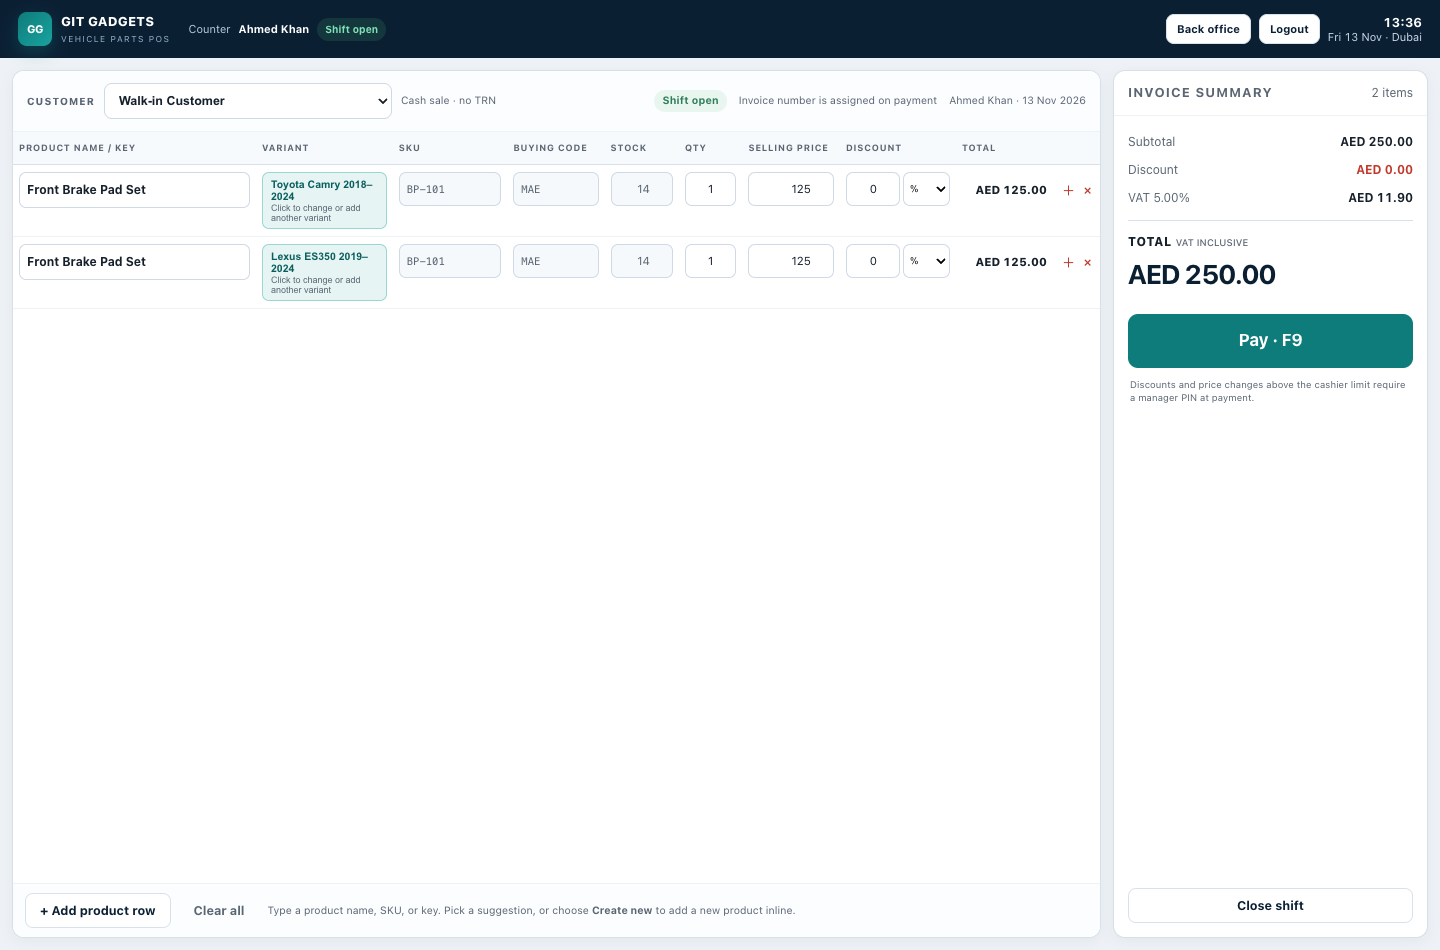
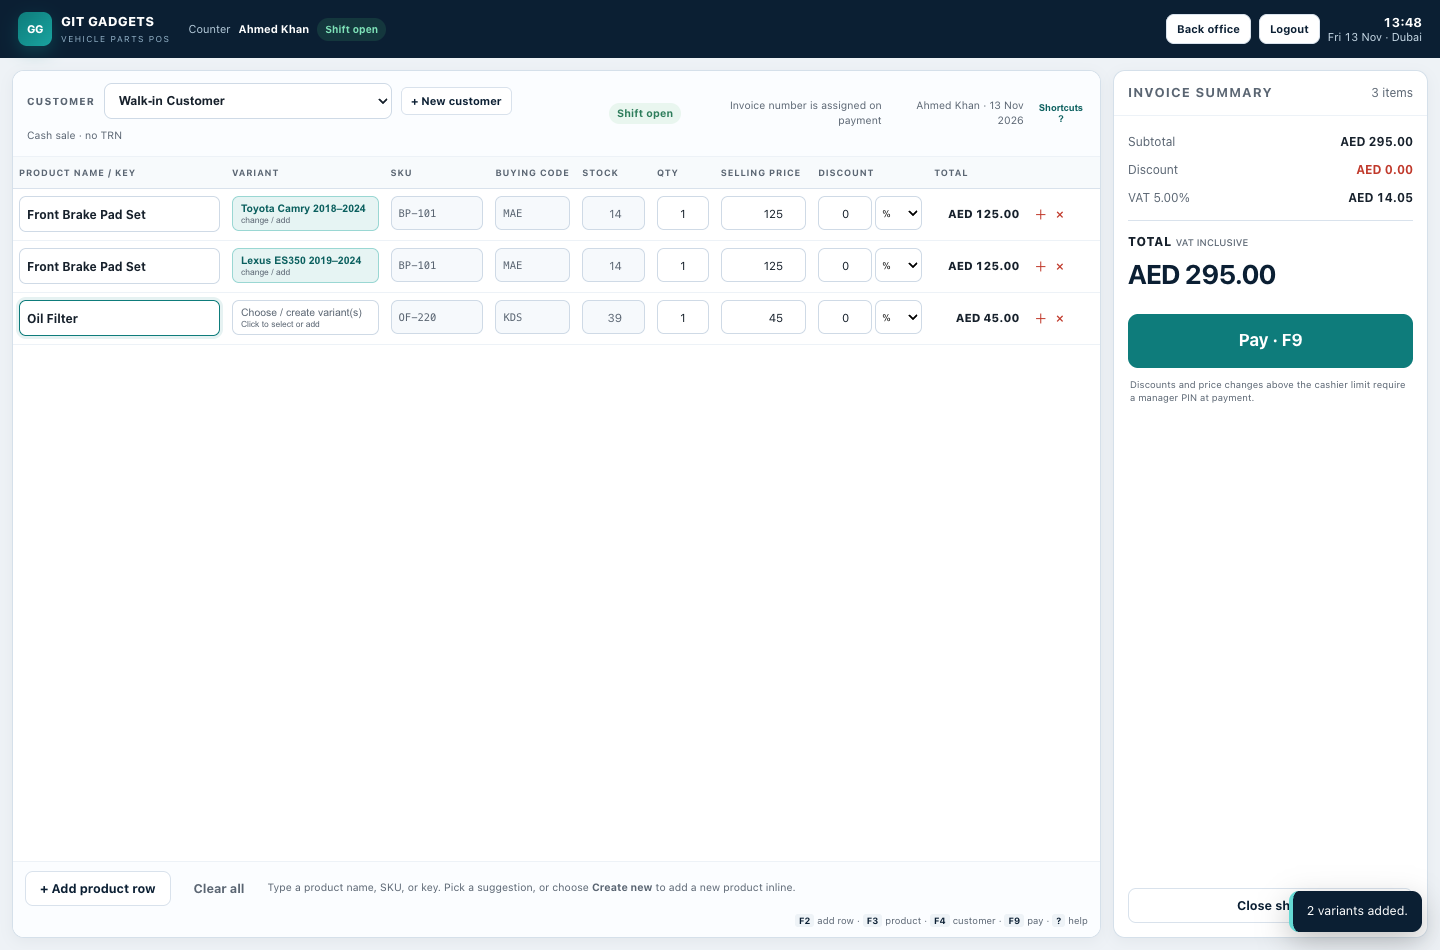
Add POS customer creation, hidden cost and shortcuts

diff --git a/public/js/pos.js b/public/js/pos.js
@@ -63,6 +63,66 @@
     customerSelect.addEventListener('change', syncCustomerMeta);
     syncCustomerMeta();
 
+
+    // ---------------------------------------------------------------- new customer
+    const openNewCustomer = () => {
+        $('#customer-form').reset();
+        openModal('customer-modal');
+        setTimeout(() => $('#new-customer-name').focus(), 100);
+    };
+    $('#new-customer-btn').addEventListener('click', openNewCustomer);
+    $('#customer-form').addEventListener('submit', async (e) => {
+        e.preventDefault();
+        const form = new FormData(e.target);
+        const payload = {};
+        form.forEach((value, key) => { if (value !== '') payload[key] = value; });
+        try {
+            const data = await api('/api/pos/customers', { method: 'POST', body: JSON.stringify(payload) });
+            const c = data.customer;
+            const option = new Option(c.name + (c.trn ? ' — ' + c.trn : ''), c.id);
+            option.dataset.name = c.name;
+            option.dataset.trn = c.trn || '';
+            option.dataset.credit = c.credit_limit;
+            option.dataset.outstanding = c.outstanding;
+            customerSelect.appendChild(option);
+            customerSelect.value = String(c.id);
+            syncCustomerMeta();
+            closeModal('customer-modal');
+            toast('Customer ' + c.name + ' created and selected.');
+        } catch (err) { toast(err.message, 'error'); }
+    });
+
+    // ---------------------------------------------------------------- hidden buying price
+    let costRow = null;
+    const openBuyingPrice = (tr) => {
+        if (!boot.user?.can_view_cost) return;
+        costRow = tr;
+        $('#buying-price-product').textContent = tr.querySelector('.entry-product').value + ' — the value is masked and never shown in the table.';
+        $('#buying-price-input').value = tr._cost ?? '';
+        openModal('buying-price-modal');
+        setTimeout(() => $('#buying-price-input').focus(), 100);
+    };
+    $('#buying-price-save').addEventListener('click', () => {
+        if (!costRow) return;
+        const raw = $('#buying-price-input').value.trim();
+        const value = raw === '' ? null : Number(raw);
+        if (value !== null && (!Number.isFinite(value) || value < 0)) {
+            toast('Buying price must be zero or more.', 'error');
+            return;
+        }
+        costRow._cost = value;
+        const btn = costRow.querySelector('.buying-price');
+        btn.classList.toggle('cost-set', value !== null);
+        btn.title = value === null ? 'Enter hidden buying price' : 'Buying price saved (hidden)';
+        closeModal('buying-price-modal');
+        toast(value === null ? 'Buying price cleared.' : 'Buying price saved hidden.');
+        costRow = null;
+    });
+
+    // ---------------------------------------------------------------- shortcuts
+    const openShortcuts = () => openModal('shortcuts-modal');
+    $('#shortcuts-btn').addEventListener('click', openShortcuts);
+
     // ---------------------------------------------------------------- product search
     const suggest = $('#product-suggest');
     const hideSuggest = () => { suggest.classList.remove('open'); state.activeRow = null; };
@@ -140,6 +200,7 @@
         </td>
         <td><div class="entry-total">AED 0.00</div></td>
         <td class="nowrap">
+            <button type="button" class="entry-remove buying-price" title="Enter hidden buying price" style="display:none">🔒</button>
             <button type="button" class="entry-remove duplicate-variant" title="Add another variant of this product" style="display:none">＋</button>
             <button type="button" class="entry-remove remove-row" title="Remove row">×</button>
         </td>`;
@@ -206,6 +267,7 @@
         tr.querySelector('.entry-qty').value = 1;
         tr.querySelector('.entry-discount').value = 0;
         tr.querySelector('.duplicate-variant').style.display = '';
+        tr.querySelector('.buying-price').style.display = 'none';
         tr._fitments = product.fitments || [];
         tr._variant = null;
         setVariantInput(tr, `<button type="button" class="variant-picker" data-open-variants>
@@ -239,8 +301,13 @@
         price.value = 0;
         tr._fitments = [];
         tr._variant = null;
+        tr._cost = null;
         setVariantInput(tr, '<input class="entry-input entry-variant" placeholder="Variant" autocomplete="off">');
         tr.querySelector('.duplicate-variant').style.display = 'none';
+        const costBtn = tr.querySelector('.buying-price');
+        costBtn.style.display = boot.user?.can_view_cost ? '' : 'none';
+        costBtn.classList.remove('cost-set');
+        costBtn.title = 'Enter hidden buying price';
         recalc();
         if (!silent) {
             sku.focus();
@@ -313,6 +380,16 @@
         recalc();
     });
 
+    $('#entry-body').addEventListener('keydown', (e) => {
+        if (e.key !== 'Enter' || !e.target.classList.contains('entry-product')) return;
+        const tr = e.target.closest('.entry-row');
+        if (tr && state.activeRow === tr && state.activeResults.length) {
+            e.preventDefault();
+            selectProduct(tr, state.activeResults[0]);
+            hideSuggest();
+        }
+    });
+
     $('#entry-body').addEventListener('click', (e) => {
         const tr = e.target.closest('.entry-row');
         if (!tr) return;
@@ -320,6 +397,9 @@
             tr.remove();
             if (!$$('#entry-body .entry-row').length) addRow();
             recalc();
+        }
+        if (e.target.closest('.buying-price')) {
+            openBuyingPrice(tr);
         }
         if (e.target.closest('.duplicate-variant') || e.target.closest('[data-open-variants]')) {
             openVariantPicker(tr);
@@ -551,6 +631,7 @@
             discount_type: tr.querySelector('.entry-discount-type').value,
             discount_value: Number(tr.querySelector('.entry-discount').value || 0),
             original_price: Number(tr.dataset.originalPrice || 0),
+            cost: tr._cost ?? null,
             variant_label: variant.label,
             variant_sku: variant.sku,
         };
@@ -569,6 +650,7 @@
                     selling_price: row.price,
                     secret_cost_code: row.code,
                     stock_qty: row.stock,
+                    cost_price: row.cost ?? undefined,
                     variants: [],
                 }),
             });
@@ -677,7 +759,12 @@
         if (e.key === 'Escape') { closeAll(); hideSuggest(); return; }
         if (e.key === 'F2') { e.preventDefault(); addRow(); }
         if (e.key === 'F3') { e.preventDefault(); $('#entry-body .entry-product')?.focus(); }
+        if (e.key === 'F4') { e.preventDefault(); openNewCustomer(); }
         if (e.key === 'F9') { e.preventDefault(); openPayment(); }
+        if (e.key === '?' && !['INPUT', 'TEXTAREA', 'SELECT'].includes(document.activeElement?.tagName)) {
+            e.preventDefault();
+            openShortcuts();
+        }
     });
 
     addRow();

diff --git a/public/css/app.css b/public/css/app.css
@@ -451,7 +451,7 @@ table.table { width: 100%; border-collapse: collapse; font-size: 12.5px; }
 .entry-customer label { font-size: 10px; text-transform: uppercase; letter-spacing: .1em; color: var(--muted); font-weight: 800; }
 .entry-customer select { height: 36px; min-width: 240px; max-width: 360px; border: 1px solid #cfdae6; border-radius: 8px; padding: 0 10px; background: #fff; font-size: 12.5px; font-weight: 600; color: var(--ink); }
 .entry-customer-meta { font-size: 10.5px; color: var(--muted); }
-.entry-meta { display: flex; align-items: center; gap: 12px; font-size: 10.5px; color: var(--muted); text-align: right; }
+.entry-meta { display: flex; align-items: center; justify-content: flex-end; flex-wrap: wrap; gap: 8px 12px; font-size: 10.5px; color: var(--muted); text-align: right; }
 .entry-table-wrap { flex: 1; min-height: 0; overflow: auto; }
 .entry-table { width: 100%; min-width: 1010px; border-collapse: collapse; font-size: 11.5px; }
 .entry-table th { position: sticky; top: 0; z-index: 3; text-align: left; font-size: 9px; text-transform: uppercase; letter-spacing: .08em; color: var(--muted); background: #f7fafc; border-bottom: 1px solid var(--line); padding: 9px 6px; white-space: nowrap; }
@@ -516,3 +516,11 @@ table.table { width: 100%; border-collapse: collapse; font-size: 12.5px; }
 @media (max-width: 700px) { .new-variant-row { grid-template-columns: 1fr 1fr; } }
 .new-variant-labels { display: grid; grid-template-columns: 1.1fr 1.1fr 70px 70px 1fr 28px; gap: 5px; margin-bottom: 4px; font-size: 8.5px; text-transform: uppercase; letter-spacing: .06em; color: var(--muted); font-weight: 700; }
 @media (max-width: 700px) { .new-variant-labels { display: none; } }
+
+.entry-shortcuts { margin-left: auto; font-size: 9.5px; color: var(--muted); white-space: nowrap; }
+.entry-shortcuts b { color: var(--navy); background: #eef3f7; border-radius: 3px; padding: 1px 4px; font-size: 9px; }
+.buying-price { color: #8a5d00; font-size: 13px; }
+.buying-price.cost-set { color: var(--green); }
+.shortcut-list { display: flex; flex-direction: column; gap: 7px; }
+.shortcut-list div { display: flex; align-items: center; gap: 12px; font-size: 12px; }
+.shortcut-list kbd { display: inline-flex; min-width: 46px; justify-content: center; background: #eef3f7; border: 1px solid var(--line); border-bottom-width: 2px; border-radius: 5px; padding: 3px 6px; font-family: var(--mono); font-size: 10px; font-weight: 700; color: var(--navy); }

diff --git a/resources/views/pos/index.blade.php b/resources/views/pos/index.blade.php
@@ -20,12 +20,14 @@
                         </option>
                     @endforeach
                 </select>
+                <button class="btn btn-secondary btn-sm" id="new-customer-btn" type="button">+ New customer</button>
                 <div class="entry-customer-meta" id="customer-meta">Cash sale · no TRN</div>
             </div>
             <div class="entry-meta">
                 <span class="badge {{ $boot['shift'] ? 'badge-green' : 'badge-red' }}" id="entry-shift-badge">{{ $boot['shift'] ? 'Shift open' : 'Shift closed' }}</span>
-                <span>Invoice number is assigned on payment</span>
+                <span>Invoice on payment</span>
                 <span>{{ auth()->user()->name }} · {{ now()->format('d M Y') }}</span>
+                <button class="mini-link" id="shortcuts-btn" type="button">Shortcuts ?</button>
             </div>
         </div>
 
@@ -33,16 +35,16 @@
             <table class="entry-table">
                 <thead>
                     <tr>
-                        <th style="width:21%">Product name / key</th>
-                        <th style="width:16%">Variant</th>
+                        <th style="width:20%">Product name / key</th>
+                        <th style="width:15%">Variant</th>
                         <th style="width:10%">SKU</th>
-                        <th style="width:9%">Buying code</th>
+                        <th style="width:8%">Buying code</th>
                         <th style="width:7%">Stock</th>
                         <th style="width:6%">Qty</th>
                         <th style="width:9%">Selling price</th>
                         <th style="width:9%">Discount</th>
                         <th style="width:9%" class="text-right">Total</th>
-                        <th style="width:4%"></th>
+                        <th style="width:7%"></th>
                     </tr>
                 </thead>
                 <tbody id="entry-body"></tbody>
@@ -53,6 +55,7 @@
             <button type="button" class="btn btn-secondary" id="add-row-btn">+ Add product row</button>
             <button type="button" class="btn btn-ghost" id="clear-rows-btn">Clear all</button>
             <span class="entry-help">Type a product name, SKU, or key. Pick a suggestion, or choose <strong>Create new</strong> to add a new product inline.</span>
+            <span class="entry-shortcuts"><b>F2</b> add row · <b>F3</b> product · <b>F4</b> customer · <b>F9</b> pay · <b>?</b> help</span>
         </div>
     </section>
 
@@ -89,6 +92,58 @@
             </div>
             <div class="modal-foot"><button type="submit" class="btn">Open shift</button></div>
         </form>
+    </div>
+</div>
+
+{{-- New customer --}}
+<div class="modal-backdrop" id="customer-modal">
+    <div class="modal">
+        <div class="modal-head"><div><h2>New customer</h2><p>Create a customer without leaving the sale. Credit limits can be set later by a manager.</p></div><button class="modal-close" data-close="customer-modal" type="button">×</button></div>
+        <form id="customer-form">
+            <div class="modal-body">
+                <div class="form-grid">
+                    <div class="field"><label>Contact name *</label><input name="name" id="new-customer-name" required maxlength="150" placeholder="Omar Al Suwaidi"></div>
+                    <div class="field"><label>Phone</label><input name="phone" maxlength="30" placeholder="+971 50 000 0000"></div>
+                    <div class="field"><label>Company name</label><input name="company_name" maxlength="150" placeholder="Al Quoz Garage LLC"></div>
+                    <div class="field"><label>TRN (15 digits)</label><input name="trn" maxlength="15" inputmode="numeric" placeholder="Optional"></div>
+                    <div class="field span-2"><label>Email</label><input name="email" type="email" maxlength="150" placeholder="Optional"></div>
+                    <div class="field span-2"><label>Billing address</label><textarea name="address" maxlength="1000" placeholder="Optional"></textarea></div>
+                </div>
+                <div class="quick-summary">The new customer is selected for this sale immediately. Credit limit is 0 until a manager updates the customer record.</div>
+            </div>
+            <div class="modal-foot"><button class="btn btn-secondary" type="button" data-close="customer-modal">Cancel</button><button class="btn" type="submit">Create &amp; select</button></div>
+        </form>
+    </div>
+</div>
+
+{{-- Hidden buying price --}}
+<div class="modal-backdrop" id="buying-price-modal">
+    <div class="modal small">
+        <div class="modal-head"><div><h2>Buying price</h2><p id="buying-price-product">Hidden internal cost for this new product.</p></div><button class="modal-close" data-close="buying-price-modal" type="button">×</button></div>
+        <div class="modal-body">
+            <div class="field"><label>Buying price (AED)</label><input id="buying-price-input" type="password" inputmode="decimal" autocomplete="off" placeholder="••••"><div class="hint">Stored as the numeric cost. It is never shown in the sale table or on customer documents.</div></div>
+            <div class="quick-summary">Only owners and managers can enter a buying price. Cashiers can create the product and leave the cost pending for review.</div>
+        </div>
+        <div class="modal-foot"><button class="btn btn-secondary" type="button" data-close="buying-price-modal">Cancel</button><button class="btn" type="button" id="buying-price-save">Save hidden cost</button></div>
+    </div>
+</div>
+
+{{-- Shortcuts --}}
+<div class="modal-backdrop" id="shortcuts-modal">
+    <div class="modal small">
+        <div class="modal-head"><div><h2>Keyboard shortcuts</h2><p>Work the counter without reaching for the mouse.</p></div><button class="modal-close" data-close="shortcuts-modal" type="button">×</button></div>
+        <div class="modal-body">
+            <div class="shortcut-list">
+                <div><kbd>F2</kbd><span>Add a product row</span></div>
+                <div><kbd>F3</kbd><span>Focus product search</span></div>
+                <div><kbd>F4</kbd><span>Create a new customer</span></div>
+                <div><kbd>Enter</kbd><span>Pick the first product suggestion</span></div>
+                <div><kbd>F9</kbd><span>Take payment</span></div>
+                <div><kbd>Esc</kbd><span>Close the open modal</span></div>
+                <div><kbd>?</kbd><span>Show this help</span></div>
+            </div>
+        </div>
+        <div class="modal-foot"><button class="btn" type="button" data-close="shortcuts-modal">Got it</button></div>
     </div>
 </div>
 

diff --git a/tests/Feature/PosFlowTest.php b/tests/Feature/PosFlowTest.php
@@ -317,6 +317,46 @@ class PosFlowTest extends TestCase
         $this->assertDatabaseHas('product_fitments', ['product_id' => $product->id, 'mapped_part_number' => 'MAZ-BP-102']);
     }
 
+    public function test_cashier_can_create_a_customer_from_the_pos(): void
+    {
+        $response = $this->actingAs($this->cashier())->postJson('/api/pos/customers', [
+            'name' => 'Counter Customer',
+            'company_name' => 'Counter Garage LLC',
+            'phone' => '+971500000001',
+            'trn' => '100999888777666',
+        ]);
+
+        $response->assertCreated()
+            ->assertJsonPath('customer.name', 'Counter Garage LLC')
+            ->assertJsonPath('customer.credit_limit', 0);
+        $this->assertDatabaseHas('customers', [
+            'name' => 'Counter Customer',
+            'company_name' => 'Counter Garage LLC',
+            'credit_limit' => 0,
+        ]);
+    }
+
+    public function test_owner_can_save_a_hidden_buying_price_for_a_new_pos_product(): void
+    {
+        $owner = User::where('email', 'owner@gitgadgets.test')->firstOrFail();
+
+        $response = $this->actingAs($owner)->postJson('/api/pos/quick-add', [
+            'name' => 'Hidden Cost Part',
+            'primary_part_number' => 'HIDDEN-001',
+            'selling_price' => 150,
+            'secret_cost_code' => 'HIDDEN',
+            'stock_qty' => 1,
+            'cost_price' => 92.50,
+        ]);
+
+        $response->assertCreated();
+        $this->assertDatabaseHas('products', [
+            'primary_part_number' => 'HIDDEN-001',
+            'cost_price' => 92.50,
+            'cost_pending' => 0,
+        ]);
+    }
+
     public function test_cashier_totals_endpoint_never_returns_cost(): void
     {
         $product = Product::where('primary_part_number', 'BP-101')->firstOrFail();

diff --git a/app/Http/Controllers/Api/PosApiController.php b/app/Http/Controllers/Api/PosApiController.php
@@ -63,6 +63,44 @@ class PosApiController extends Controller
         return response()->json(['data' => $customers]);
     }
 
+
+    public function storeCustomer(Request $request, AuditService $audit)
+    {
+        $data = $request->validate([
+            'name' => ['required', 'string', 'max:150'],
+            'company_name' => ['nullable', 'string', 'max:150'],
+            'phone' => ['nullable', 'string', 'max:30'],
+            'email' => ['nullable', 'email', 'max:150'],
+            'trn' => ['nullable', 'digits:15', 'unique:customers,trn'],
+            'address' => ['nullable', 'string', 'max:1000'],
+        ]);
+
+        $customer = Customer::create([
+            'name' => $data['name'],
+            'company_name' => $data['company_name'] ?? null,
+            'phone' => $data['phone'] ?? null,
+            'email' => $data['email'] ?? null,
+            'trn' => $data['trn'] ?? null,
+            'address' => $data['address'] ?? null,
+            'credit_limit' => 0,
+            'payment_terms_days' => 0,
+            'is_active' => true,
+        ]);
+
+        $audit->log('customer.created_from_pos', $customer, ['name' => $customer->name], $request->user());
+
+        return response()->json([
+            'customer' => [
+                'id' => $customer->id,
+                'name' => $customer->company_name ?: $customer->name,
+                'contact' => $customer->company_name ? $customer->name : null,
+                'trn' => $customer->trn,
+                'credit_limit' => 0,
+                'outstanding' => 0,
+            ],
+        ], 201);
+    }
+
     public function quickAdd(Request $request, StockService $stock, AuditService $audit, VehicleVariantService $variants)
     {
         abort_unless($request->user()->canSell(), 403);

diff --git a/routes/web.php b/routes/web.php
@@ -26,6 +26,7 @@ Route::middleware('auth')->group(function () {
     Route::prefix('api/pos')->name('api.pos.')->group(function () {
         Route::get('/search', [PosApiController::class, 'search'])->name('search');
         Route::get('/customers', [PosApiController::class, 'customerSearch'])->name('customers');
+        Route::post('/customers', [PosApiController::class, 'storeCustomer'])->name('customers.store');
         Route::post('/quick-add', [PosApiController::class, 'quickAdd'])->name('quick-add');
         Route::post('/products/{product}/variants', [PosApiController::class, 'addVariants'])->name('products.variants');
         Route::post('/totals', [PosApiController::class, 'totals'])->name('totals');

diff --git a/README.md b/README.md
@@ -11,7 +11,9 @@ It is built around the two things a parts shop needs at the counter: **fitment-f
 - **Fitment-first catalogue** — one product, many vehicle fitments and OEM/cross-reference numbers. Search by part number, vehicle, year, cross-reference, name, or barcode.
 - **Secret cost code** — a manually entered code shown to counter staff. The numeric cost is permission-gated and never sent to a cashier's API response or printed on customer documents.
 - **Inline product creation** — when a product is not in the catalogue, create it from the sale row with SKU, secret buying code, selling price and opening stock. Vehicle variants can be selected in the row; the **＋** action duplicates the product for another variant.
-- **Table POS** — customer selection or walk-in, product search, a click-to-select variant picker that can add several existing variants or create multiple new vehicle variants at once, inline new-product rows, quantity, line discounts, price override with a reason, split cash/card/credit/bank payments and cash change.
+- **Table POS** — customer selection, walk-in default, **new-customer creation from the POS**, product search, a click-to-select variant picker that can add several existing variants or create multiple new vehicle variants at once, inline new-product rows, quantity, line discounts, price override with a reason, split cash/card/credit/bank payments and cash change.
+- **Hidden buying price** — owners and managers can enter a masked buying price for a new product from the row lock action. It is stored as the numeric cost and never displayed in the table or on customer documents.
+- **Keyboard-first** — F2 add row, F3 product search, F4 new customer, F9 payment, and `?` for the shortcut reference.
 - **Approval controls** — discounts above the cashier limit and price overrides require a manager PIN (`1234` in the demo).
 - **UAE VAT invoices** — 5% VAT, VAT-inclusive or VAT-exclusive pricing, sequential `GG-2026-000001` invoice numbers, 80 mm receipt and A4 tax invoice.
 - **Stock ledger** — every sale, receipt, return, adjustment and opening quantity is written to an append-only movement history. Weighted-average cost on receipt.
@@ -94,7 +96,7 @@ php artisan test
 
 The suite covers VAT-inclusive/exclusive calculations, invoice discounts, split-payment sales, stock decrementing, cost visibility, manager approval, Quick Add, invoice privacy, credit notes/restocking, and role restrictions.
 
-Current result: **21 tests passing** (including VAT, split payments, table POS, discounts, multi-variant product creation, variant snapshots, returns and cost-privacy checks).
+Current result: **23 tests passing** (including VAT, split payments, table POS, discounts, multi-variant product creation, variant snapshots, returns and cost-privacy checks).
 
 ## Key project files
 
